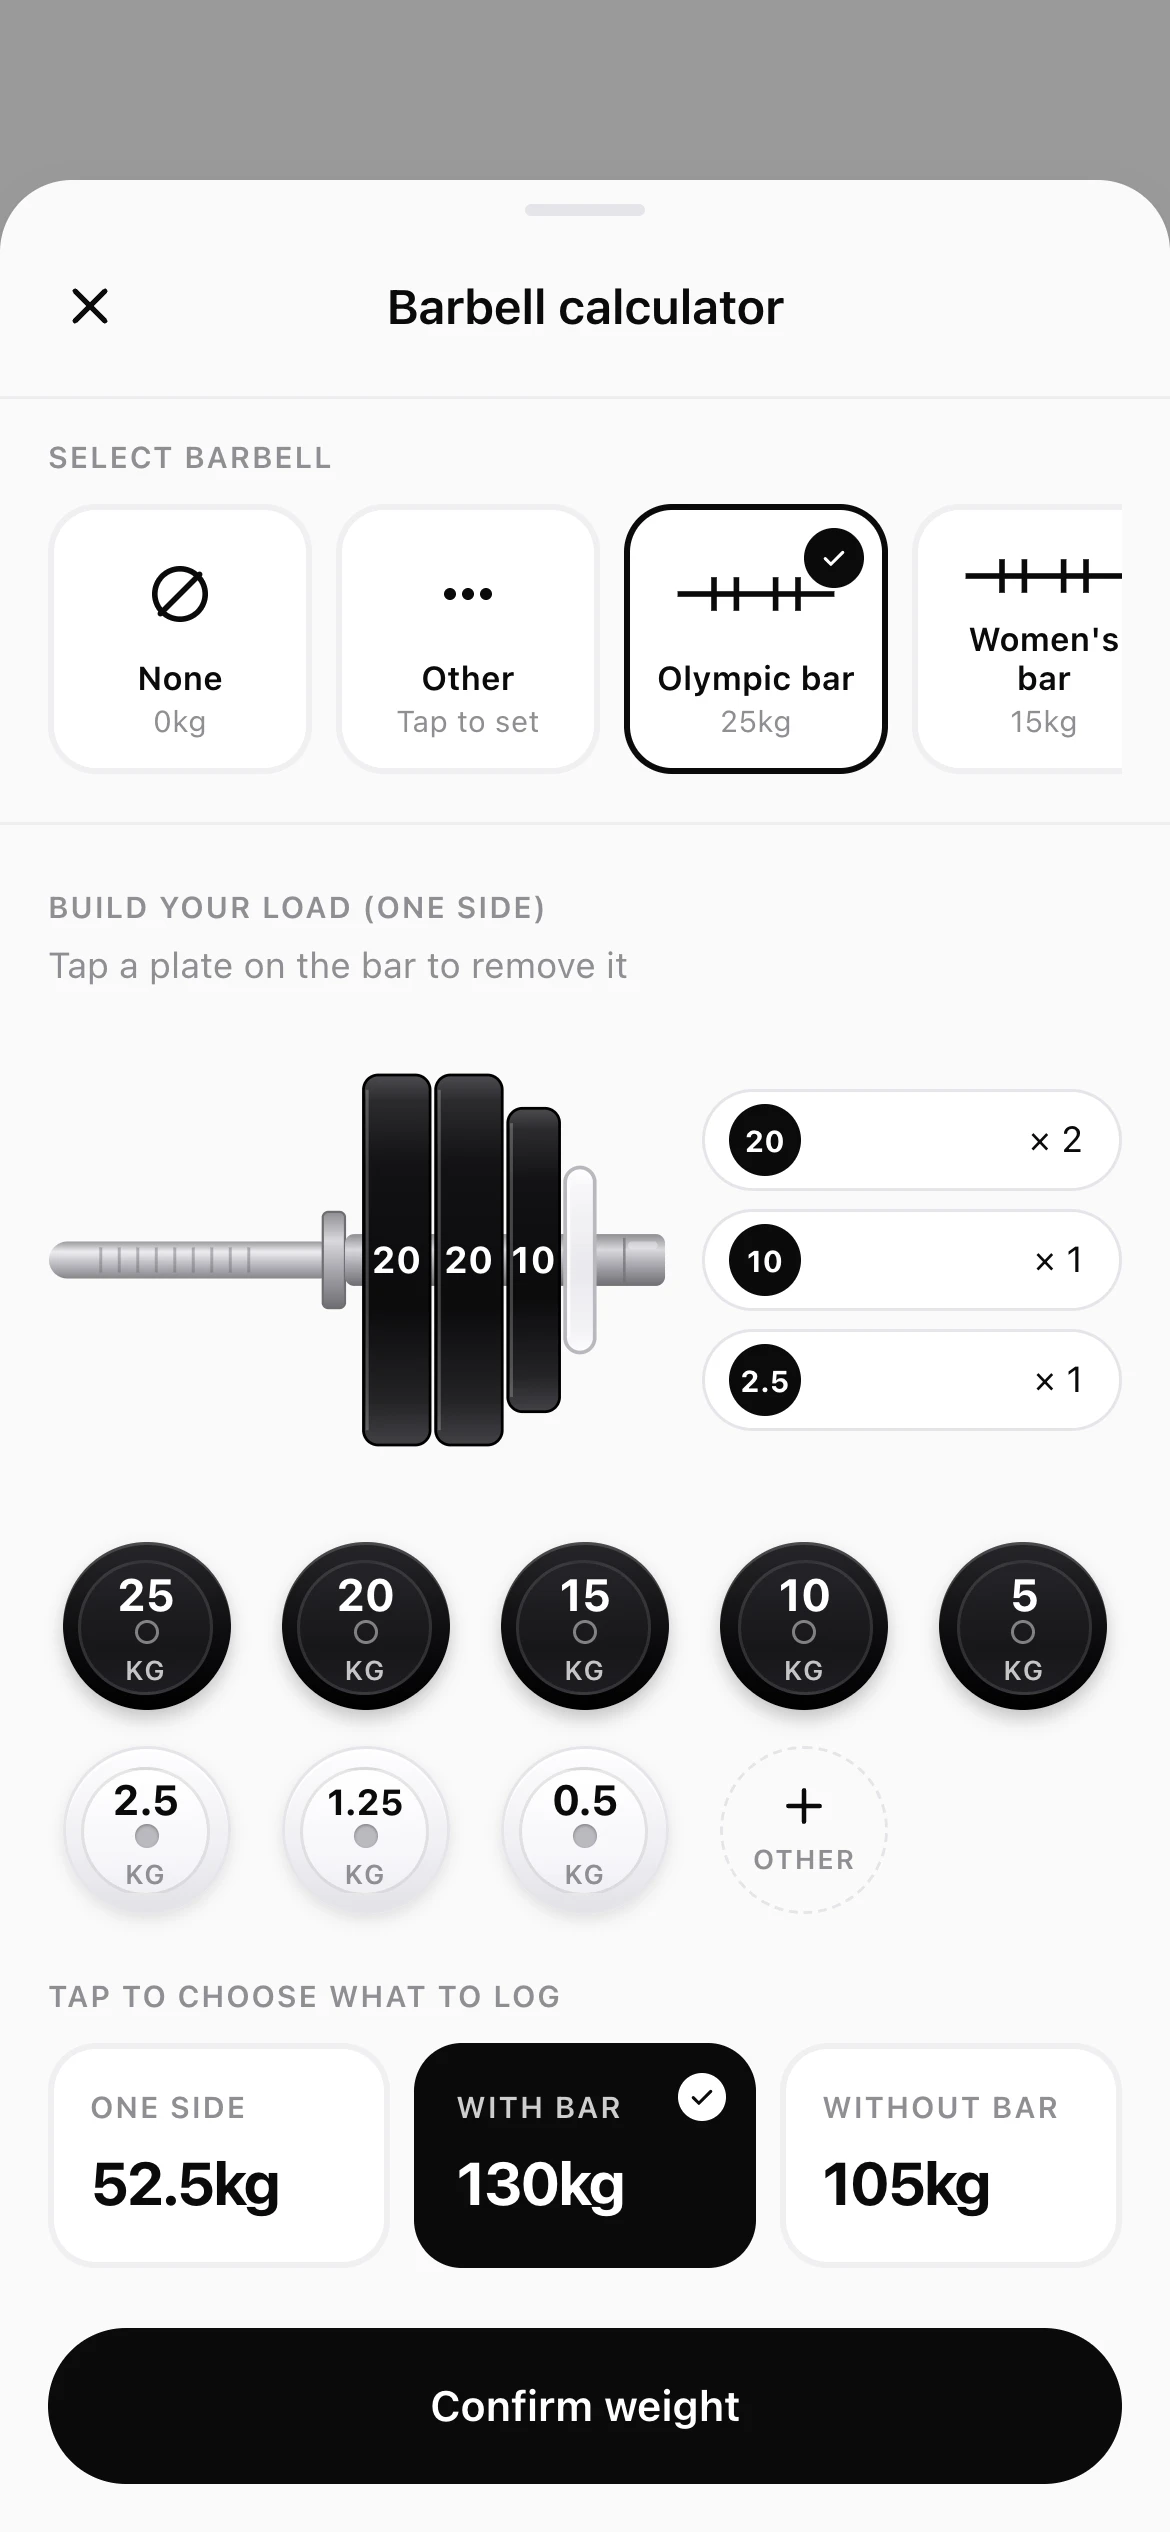
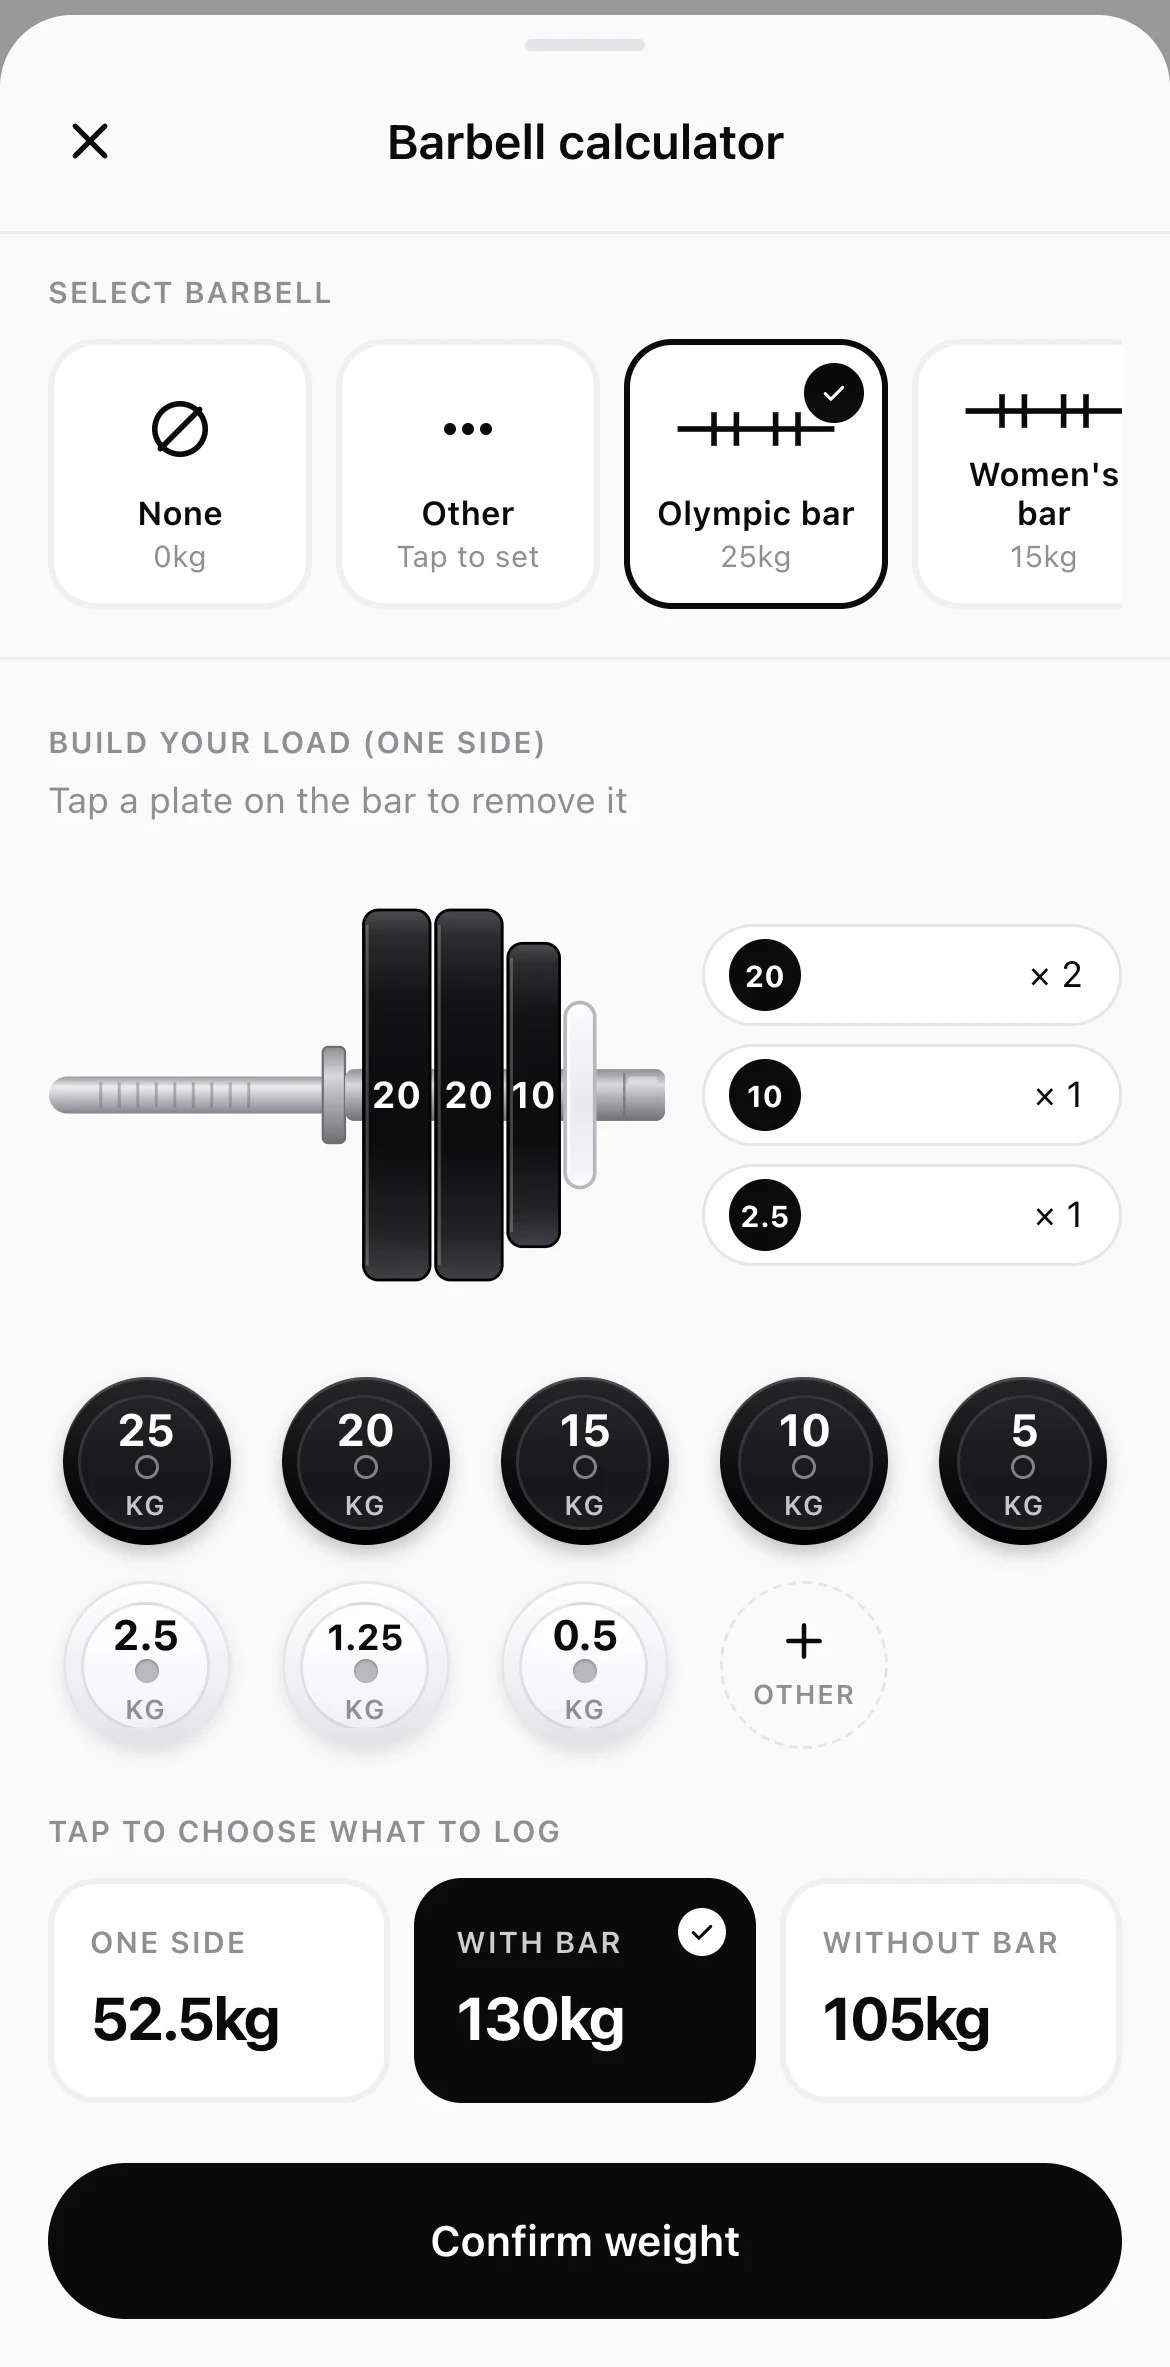
Shape the phone glass to the screens instead of cropping them to it
Fitting Android captures into an iPhone-shaped frame had only bad
answers: pad the difference and the screen floats in a gap, crop it and
the app's own side margins go with it — which is what was happening, with
titles and labels ending up hard against the edge.

So the frame follows the screens. Every capture is now 1080/2185: the
Android ones natively once both system bars are off, the calculator ones
by dropping the 165px of dimmed backdrop above the sheet (its own top
padding, no UI in it), and the day list by trimming blank tail. The glass
takes the same ratio, so object-fit has nothing left to crop — each
screen sits in the frame at full width with the margins the app drew.

The phone reads slightly wider than an iPhone now, which is honest: these
are Android screenshots.

Claude-Session: https://claude.ai/code/session_016dQZsHJBfV1LHgyEm3bUhk

diff --git a/index.html b/index.html
@@ -85,7 +85,7 @@
 
       <div class="hero__art" aria-hidden="true">
         <figure class="phone phone--back">
-          <img src="assets/shots/reps-days.webp" alt="" width="1170" height="2532" loading="eager" decoding="async" />
+          <img src="assets/shots/reps-days.webp" alt="" width="1170" height="2367" loading="eager" decoding="async" />
           <span class="phone__sweep" aria-hidden="true"></span>
         </figure>
         <!-- The front phone walks the app the way you would use it: home, the
@@ -98,9 +98,9 @@
           <img class="is-on" data-ms="2800" src="assets/shots/reps-home.webp" alt="" width="1080" height="2185" loading="eager" decoding="async" fetchpriority="high" />
           <img data-ms="3000" src="assets/shots/reps-progress.webp" alt="" width="1080" height="2185" loading="lazy" decoding="async" fetchpriority="low" />
           <img data-ms="2200" src="assets/shots/reps-workout.webp" alt="" width="1080" height="2185" loading="lazy" decoding="async" fetchpriority="low" />
-          <img data-ms="1000" src="assets/shots/reps-calc-a.webp" alt="" width="1170" height="2532" loading="lazy" decoding="async" fetchpriority="low" />
-          <img data-ms="1000" src="assets/shots/reps-calc-b.webp" alt="" width="1170" height="2532" loading="lazy" decoding="async" fetchpriority="low" />
-          <img data-ms="1900" src="assets/shots/reps-calc-c.webp" alt="" width="1170" height="2532" loading="lazy" decoding="async" fetchpriority="low" />
+          <img data-ms="1000" src="assets/shots/reps-calc-a.webp" alt="" width="1170" height="2367" loading="lazy" decoding="async" fetchpriority="low" />
+          <img data-ms="1000" src="assets/shots/reps-calc-b.webp" alt="" width="1170" height="2367" loading="lazy" decoding="async" fetchpriority="low" />
+          <img data-ms="1900" src="assets/shots/reps-calc-c.webp" alt="" width="1170" height="2367" loading="lazy" decoding="async" fetchpriority="low" />
           <img data-ms="2400" src="assets/shots/reps-log.webp" alt="" width="1080" height="2185" loading="lazy" decoding="async" fetchpriority="low" />
           <img data-ms="2400" src="assets/shots/reps-rest.webp" alt="" width="1080" height="2185" loading="lazy" decoding="async" fetchpriority="low" />
           <span class="phone__sweep" aria-hidden="true"></span>
@@ -168,7 +168,7 @@
     <div class="shell feature__inner">
       <figure class="panel" data-anim="days">
         <div class="phone phone--static">
-          <img src="assets/shots/reps-days.webp" alt="The Reps home screen listing three training days — Push marked ‘Up next’, Pull, and Legs marked complete — each with its body parts and exercise count." width="1170" height="2532" loading="lazy" decoding="async" />
+          <img src="assets/shots/reps-days.webp" alt="The Reps home screen listing three training days — Push marked ‘Up next’, Pull, and Legs marked complete — each with its body parts and exercise count." width="1170" height="2367" loading="lazy" decoding="async" />
           <span class="phone__sweep" aria-hidden="true"></span>
         </div>
       </figure>
@@ -194,9 +194,9 @@
     <div class="shell feature__inner">
       <figure class="panel" data-anim="calc">
         <div class="phone phone--static phone--stack">
-          <img class="is-on" src="assets/shots/reps-calc-a.webp" alt="The Reps barbell calculator with a light load: 15 kg a side, 55 kg with the bar." width="1170" height="2532" loading="lazy" decoding="async" />
-          <img src="assets/shots/reps-calc-b.webp" alt="" aria-hidden="true" width="1170" height="2532" loading="lazy" decoding="async" />
-          <img src="assets/shots/reps-calc-c.webp" alt="" aria-hidden="true" width="1170" height="2532" loading="lazy" decoding="async" />
+          <img class="is-on" src="assets/shots/reps-calc-a.webp" alt="The Reps barbell calculator with a light load: 15 kg a side, 55 kg with the bar." width="1170" height="2367" loading="lazy" decoding="async" />
+          <img src="assets/shots/reps-calc-b.webp" alt="" aria-hidden="true" width="1170" height="2367" loading="lazy" decoding="async" />
+          <img src="assets/shots/reps-calc-c.webp" alt="" aria-hidden="true" width="1170" height="2367" loading="lazy" decoding="async" />
           <span class="phone__sweep" aria-hidden="true"></span>
         </div>
       </figure>

diff --git a/styles.css b/styles.css
@@ -351,7 +351,11 @@ a { color: inherit; }
 }
 .phone img {
   width: 100%;
-  aspect-ratio: 1170 / 2532;     /* iPhone. Guards against an odd-sized capture. */
+  /* The glass is the shape of the screens it holds, not of a borrowed device.
+     Every capture is 1080/2185 (Android, both system bars removed) or cropped
+     to match, so nothing is scaled off the sides and each screen keeps the
+     margins the app draws. Guards against an odd-sized capture too. */
+  aspect-ratio: 1080 / 2185;
   object-fit: cover;
   object-position: top;
   /* The frame's radius less its 10px bezel, so the glass sits concentric
